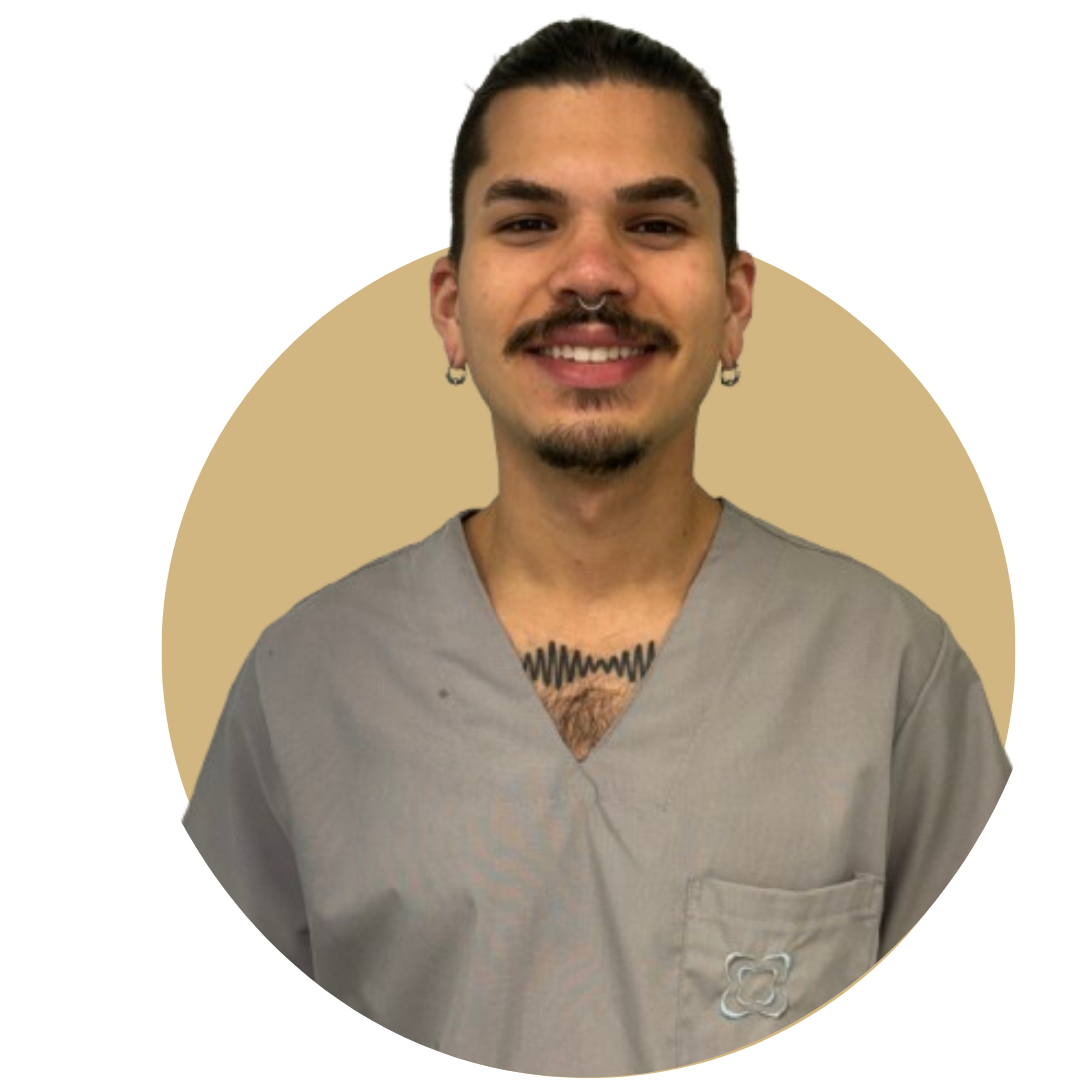
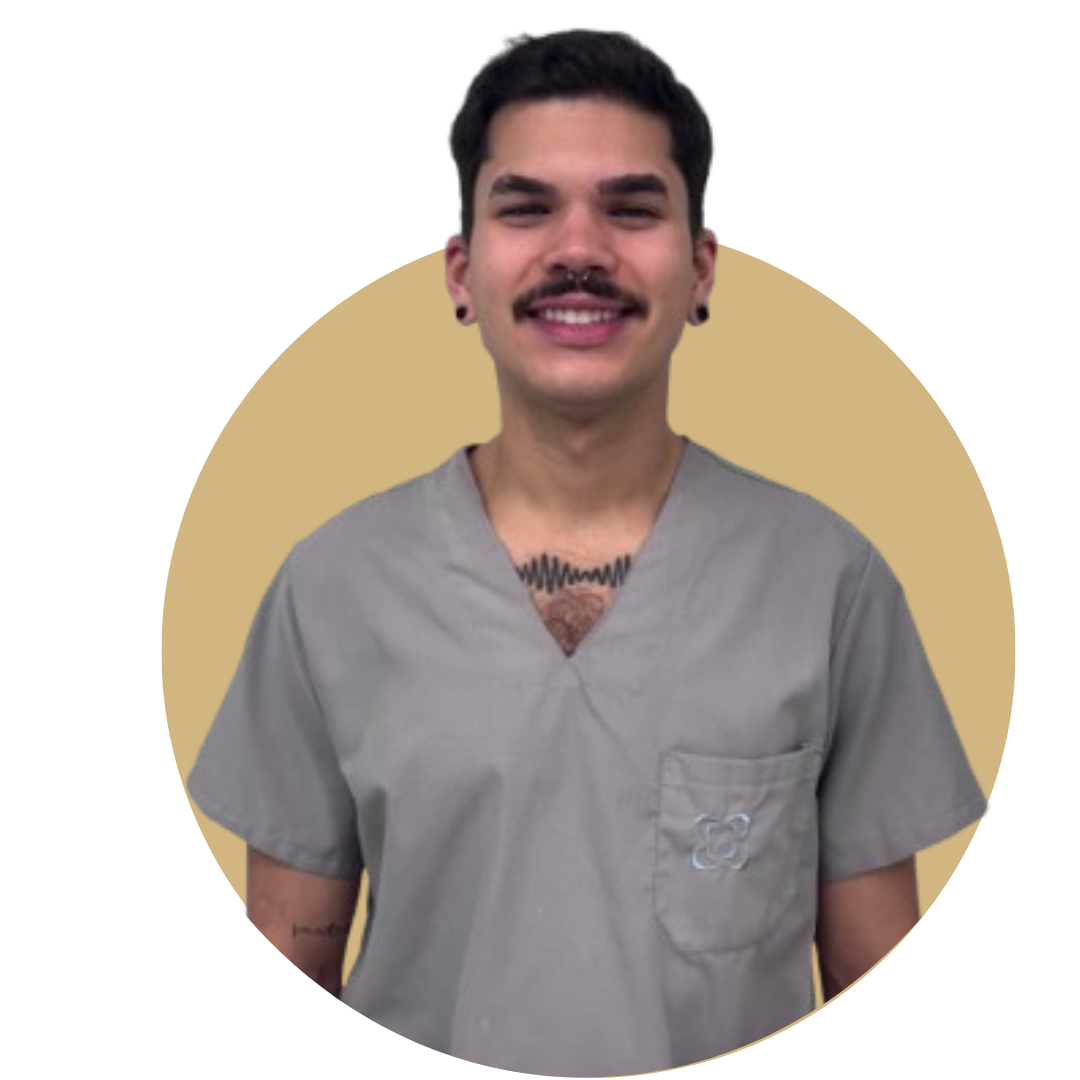
Seccion mision y vision

diff --git a/components/mission-vision.tsx b/components/mission-vision.tsx
@@ -1,93 +1,106 @@
 "use client";
 
 import { motion } from "framer-motion";
+import Image from "next/image";
 
 export default function MissionVision() {
   return (
-    <section className="w-full py-24 bg-white">
+    <section className="w-full bg-white py-16 ">
       <div className="container mx-auto px-4">
-        <div className="grid md:grid-cols-2 gap-12 max-w-6xl mx-auto">
-          {/* Misión */}
-          <motion.div
-            initial={{ opacity: 0, x: -50 }}
-            whileInView={{ opacity: 1, x: 0 }}
-            transition={{ duration: 0.7 }}
-            viewport={{ once: true }}
-            className="relative bg-white rounded-3xl shadow-lg p-10"
-          >
-            <div className="absolute -top-5 left-6 w-16 h-1 bg-co-primary-blue "></div>
-            <h3 className="text-4xl font-bold text-co-primary-blue mb-6">
-              Misión
-            </h3>
-            <p className="text-gray-700 text-lg leading-relaxed">
-              Nuestro equipo de profesionales tiene como misión la{" "}
-              <span className="font-bold text-co-primary-blue">promoción</span>,{" "}
-              <span className="font-bold text-co-primary-blue">prevención</span>{" "}
-              y{" "}
-              <span className="font-bold text-co-primary-blue">
-                rehabilitación integral
-              </span>{" "}
-              de la salud bucal. Nos motiva{" "}
-              <span className="font-bold text-co-primary-blue">
-                mejorar el nivel de salud
-              </span>{" "}
-              y brindar{" "}
-              <span className="font-bold text-co-primary-blue">
-                servicios de alta calidad
-              </span>{" "}
-              en un marco{" "}
-              <span className="font-bold text-co-primary-blue">
-                ético y humano
-              </span>
-              . Valoramos el{" "}
-              <span className="font-bold text-co-primary-blue">respeto</span>,{" "}
-              <span className="font-bold text-co-primary-blue">honestidad</span>{" "}
-              y el{" "}
-              <span className="font-bold text-co-primary-blue">compromiso</span>{" "}
-              con cada paciente.
-            </p>
-          </motion.div>
+        <div className="grid md:grid-cols-2 gap-12 items-center max-w-7xl mx-auto">
+          {/* Imagen a la izquierda */}
+          <div className="relative w-full h-full overflow-hidden">
+            <Image
+              src="/images/nosotras2.png"
+              alt="Nosotras"
+              fill
+              className="object-cover"
+              priority
+            />
+          </div>
 
-          {/* Visión */}
-          <motion.div
-            initial={{ opacity: 0, x: 50 }}
-            whileInView={{ opacity: 1, x: 0 }}
-            transition={{ duration: 0.7 }}
-            viewport={{ once: true }}
-            className="relative bg-white rounded-3xl shadow-lg p-10"
-          >
-            <div className="absolute -top-5 left-6 w-16 h-1 bg-co-secondary-beige "></div>
-            <h3 className="text-4xl font-bold text-co-secondary-beige mb-6">
-              Visión
-            </h3>
-            <p className="text-gray-700 text-lg leading-relaxed">
-              Aspiramos a ser{" "}
-              <span className="font-bold text-co-secondary-beige">
-                líderes en salud bucal
-              </span>
-              , promoviendo la{" "}
-              <span className="font-bold text-co-secondary-beige">
-                especialización
-              </span>{" "}
-              profesional, la{" "}
-              <span className="font-bold text-co-secondary-beige">
-                innovación
-              </span>{" "}
-              y el uso de{" "}
-              <span className="font-bold text-co-secondary-beige">
-                técnicas de vanguardia
-              </span>
-              . Nos enfocamos en el{" "}
-              <span className="font-bold text-co-secondary-beige">
-                mejoramiento continuo
-              </span>{" "}
-              y trabajamos con{" "}
-              <span className="font-bold text-co-secondary-beige">
-                seriedad y responsabilidad
-              </span>{" "}
-              para cuidar la salud bucal de nuestros pacientes.
-            </p>
-          </motion.div>
+          {/* Misión y Visión a la derecha */}
+          <div className="flex flex-col gap-12">
+            {/* Misión */}
+            <motion.div
+              initial={{ opacity: 0, x: 50 }}
+              whileInView={{ opacity: 1, x: 0 }}
+              transition={{ duration: 0.6 }}
+              viewport={{ once: true }}
+              className="bg-white rounded-3xl shadow-md p-8"
+            >
+              <h3 className="text-3xl md:text-4xl font-bold text-co-secondary-beige mb-4">
+                Misión
+              </h3>
+              <p className="text-gray-700 text-lg leading-relaxed">
+                Nuestro equipo de profesionales tiene como misión la{" "}
+                <span className="font-bold text-co-secondary-beige">promoción</span>,{" "}
+                <span className="font-bold text-co-secondary-beige">prevención</span>{" "}
+                y{" "}
+                <span className="font-bold text-co-secondary-beige">
+                  rehabilitación integral
+                </span>{" "}
+                de la salud bucal. Nos motiva{" "}
+                <span className="font-bold text-co-secondary-beige">
+                  mejorar el nivel de salud
+                </span>{" "}
+                y brindar{" "}
+                <span className="font-bold text-co-secondary-beige">
+                  servicios de alta calidad
+                </span>{" "}
+                en un marco{" "}
+                <span className="font-bold text-co-secondary-beige">
+                  ético y humano
+                </span>
+                . Valoramos el{" "}
+                <span className="font-bold text-co-secondary-beige">respeto</span>,{" "}
+                <span className="font-bold text-co-secondary-beige">honestidad</span>{" "}
+                y el{" "}
+                <span className="font-bold text-co-secondary-beige">compromiso</span>{" "}
+                con cada paciente.
+              </p>
+            </motion.div>
+
+            {/* Visión */}
+            <motion.div
+              initial={{ opacity: 0, x: 50 }}
+              whileInView={{ opacity: 1, x: 0 }}
+              transition={{ duration: 0.6, delay: 0.2 }}
+              viewport={{ once: true }}
+              className="bg-white rounded-3xl shadow-md p-8"
+            >
+              <h3 className="text-3xl md:text-4xl font-bold text-co-secondary-beige mb-4">
+                Visión
+              </h3>
+              <p className="text-gray-700 text-lg leading-relaxed">
+                Aspiramos a ser{" "}
+                <span className="font-bold text-co-secondary-beige">
+                  líderes en salud bucal
+                </span>
+                , promoviendo la{" "}
+                <span className="font-bold text-co-secondary-beige">
+                  especialización
+                </span>{" "}
+                profesional, la{" "}
+                <span className="font-bold text-co-secondary-beige">
+                  innovación
+                </span>{" "}
+                y el uso de{" "}
+                <span className="font-bold text-co-secondary-beige">
+                  técnicas de vanguardia
+                </span>
+                . Nos enfocamos en el{" "}
+                <span className="font-bold text-co-secondary-beige">
+                  mejoramiento continuo
+                </span>{" "}
+                y trabajamos con{" "}
+                <span className="font-bold text-co-secondary-beige">
+                  seriedad y responsabilidad
+                </span>{" "}
+                para cuidar la salud bucal de nuestros pacientes.
+              </p>
+            </motion.div>
+          </div>
         </div>
       </div>
     </section>
